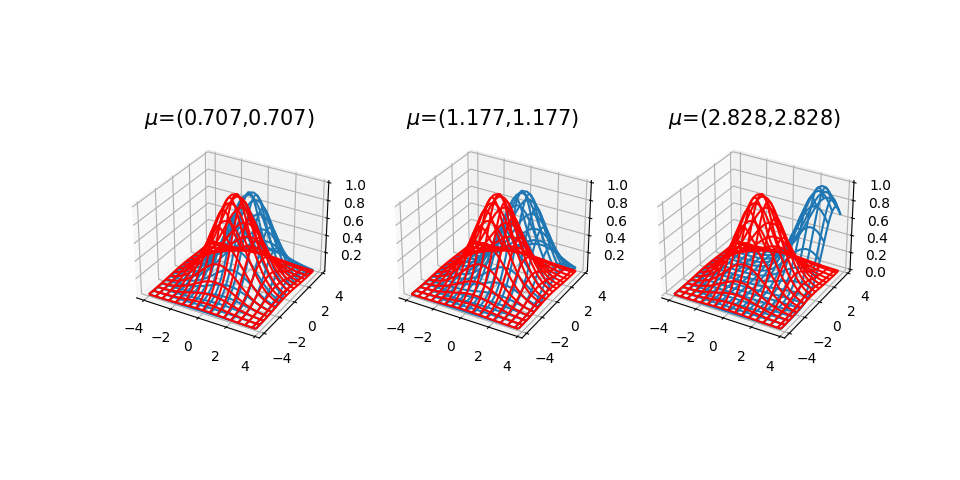
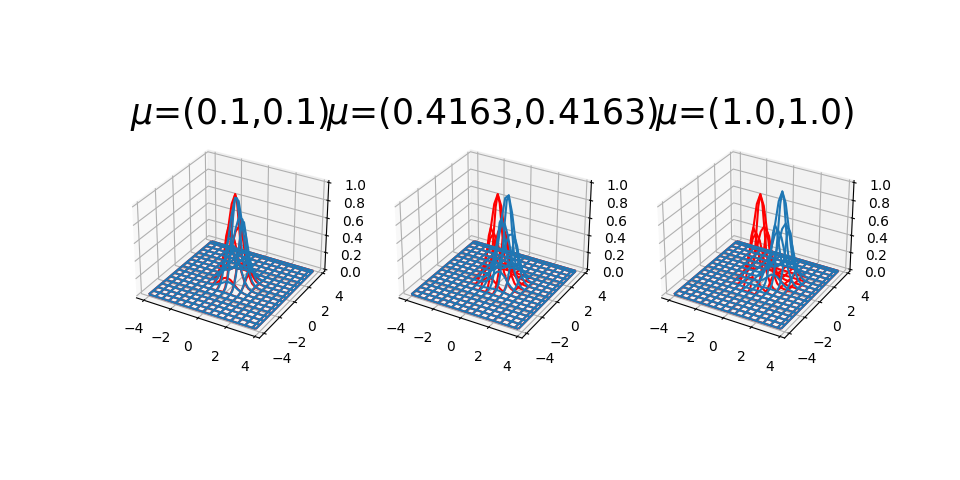
add paper images and py

diff --git a/draw_paper.py b/draw_paper.py
@@ -1,0 +1,122 @@
+#!/usr/bin/env python3
+import numpy as np
+import matplotlib.pyplot as plt
+from matplotlib import cm
+from mpl_toolkits.mplot3d import axes3d
+
+from analyze_results import collect_file, run_statistics
+
+
+# Part 1: images for simulation 1
+def show_exp(mu1=[0.1, 0.1], mu2=[0.4163, 0.4163], m3=[1.0,1.0], theta=0.5, x_low=-1, x_up=1, y_low=-1, y_up=1, x_nums=100, y_nums=100):
+
+    X = np.arange(x_low, x_up, 0.25)
+    Y = np.arange(y_low, y_up, 0.25)
+    X, Y = np.meshgrid(X, Y)
+
+    exp0_norm2 = X**2 + Y**2 
+    exp1_norm2 = (X- mu1[0])**2 + (Y - mu1[1])**2
+    exp2_norm2 = (X- mu2[0])**2 + (Y - mu2[1])**2
+    exp3_norm2 = (X- mu3[0])**2 + (Y - mu3[1])**2
+
+    exp0 = np.exp(-0.5 * exp0_norm2 / theta**2)
+    exp1 = np.exp(-0.5 * exp1_norm2 / theta**2)
+    exp2 = np.exp(-0.5 * exp2_norm2 / theta**2)
+    exp3 = np.exp(-0.5 * exp3_norm2 / theta**2)
+
+    exp = [exp1, exp2, exp3]
+    mu = [mu1, mu2, mu3]
+
+    fig = plt.figure(figsize=plt.figaspect(0.5))
+
+    for i in range(3):     
+        Z1 = exp0
+        Z2 = exp[i]
+    
+        ax = fig.add_subplot(1, 3, i+1, projection='3d')
+        ax.plot_wireframe(X, Y, Z1, rstride=2, cstride=2, color="red")
+        ax.plot_wireframe(X, Y, Z2, rstride=2, cstride=2)
+    
+        ax.set_title(r"$\mu$"+"=("+str(mu[i][0]) +","+str(mu[i][1])+")", fontsize=25)
+
+
+    plt.show()
+
+    fig.savefig("./images/exp_3d_paper")
+
+    return 0
+
+# Part 2: Double2Double
+def show_medium_percentile_errorbar(dct_medium_perc1, dct_medium_perc2, dct_medium_perc3, title, fig_name):
+    "plot lines with error bar based on medium and percentile"
+
+    fig = plt.figure(figsize=plt.figaspect(0.3))
+    fig.suptitle(title[0])
+
+    dct_medium_perc = [dct_medium_perc1, dct_medium_perc2, dct_medium_perc3]
+
+    for i in range(3):
+        ax = fig.add_subplot(1, 3, i+1)
+        ax.set_title(title[i+1])
+
+        for item in sorted(dct_medium_perc[i].items()):
+            x_draw = np.arange(len(item[1]))
+            x_draw = [ele + 1 for ele in x_draw]
+            y_medium = [ele[1] for ele in item[1]]
+            y_perc25 = [ele[1] - ele[0] for ele in item[1]]
+            y_perc75 = [ele[2] - ele[1] for ele in item[1]]
+            asymmetric_error = [y_perc25, y_perc75]
+            
+            if "task2_bcbo_from_rand.tsv" in item[0]:
+                label = "BCBO from rand"
+            elif "task2_stbo_from_rand.tsv" in item[0]:
+                label = "STBO from rand"
+            elif "task2_gp_from_rand.tsv" in item[0]:
+                label = "EI from rand"
+            elif "task2_bcbo_from_gp.tsv" in item[0]:
+                label = "BCBO from gp"
+            elif "task2_stbo_from_gp.tsv" in item[0]:
+                label = "STBO from gp"
+            elif "task2_gp_from_gp.tsv" in item[0]:
+                label = "EI from gp"
+            elif "task2_gp_from_cold.tsv" in item[0]:
+                label = "EI from cold"
+
+            ax.errorbar(x_draw, y_medium, yerr=asymmetric_error, label=label, fmt='-o')
+
+        plt.legend()
+    
+    plt.show()
+    plt.savefig(fig_name)
+    
+    return 0
+
+
+if __name__ == "__main__":
+    # Exponential family
+    size = 4
+    mu1 = [0.1,0.1]; mu2 = [0.4163, 0.4163]; mu3 = [1.0, 1.0]
+    theta = 0.5
+    show_exp(mu1, mu2, mu3, theta, x_nums=200, y_nums=200, x_low=-size,x_up=size,y_low=-size, y_up=size)
+
+    # Double2Double 
+    in_dir1 = "./data/Triple2Double"
+    out_dir1 = "./simulation_results/Triple2Double"
+
+    file_lsts_stbo1 = collect_file(in_dir1, "stbo_from_rand")
+    file_lsts_cold1 = collect_file(in_dir1, "from_cold")
+    file_lsts_stbo1.extend(file_lsts_cold1)
+    file_lsts_1 = file_lsts_stbo1
+
+    _, dct_medium_perc1 = run_statistics(file_lsts_1, out_dir1)
+
+    file_lsts_2 = collect_file(in_dir1, topic="from_rand")
+    file_lsts_3 = collect_file(in_dir1, topic="from_gp")
+
+    _, dct_medium_perc2 = run_statistics(file_lsts_2, out_dir1)
+    _, dct_medium_perc3 = run_statistics(file_lsts_3, out_dir1)
+
+    fig_name_medium = "./images/triple2double_paper.png"
+
+    title = ["Simulation 3: from triple modals to double modals", "transfer vs non-transfer", "start from rand", "start from gp"]
+    show_medium_percentile_errorbar(dct_medium_perc1, dct_medium_perc2, dct_medium_perc3, title, fig_name=fig_name_medium)
